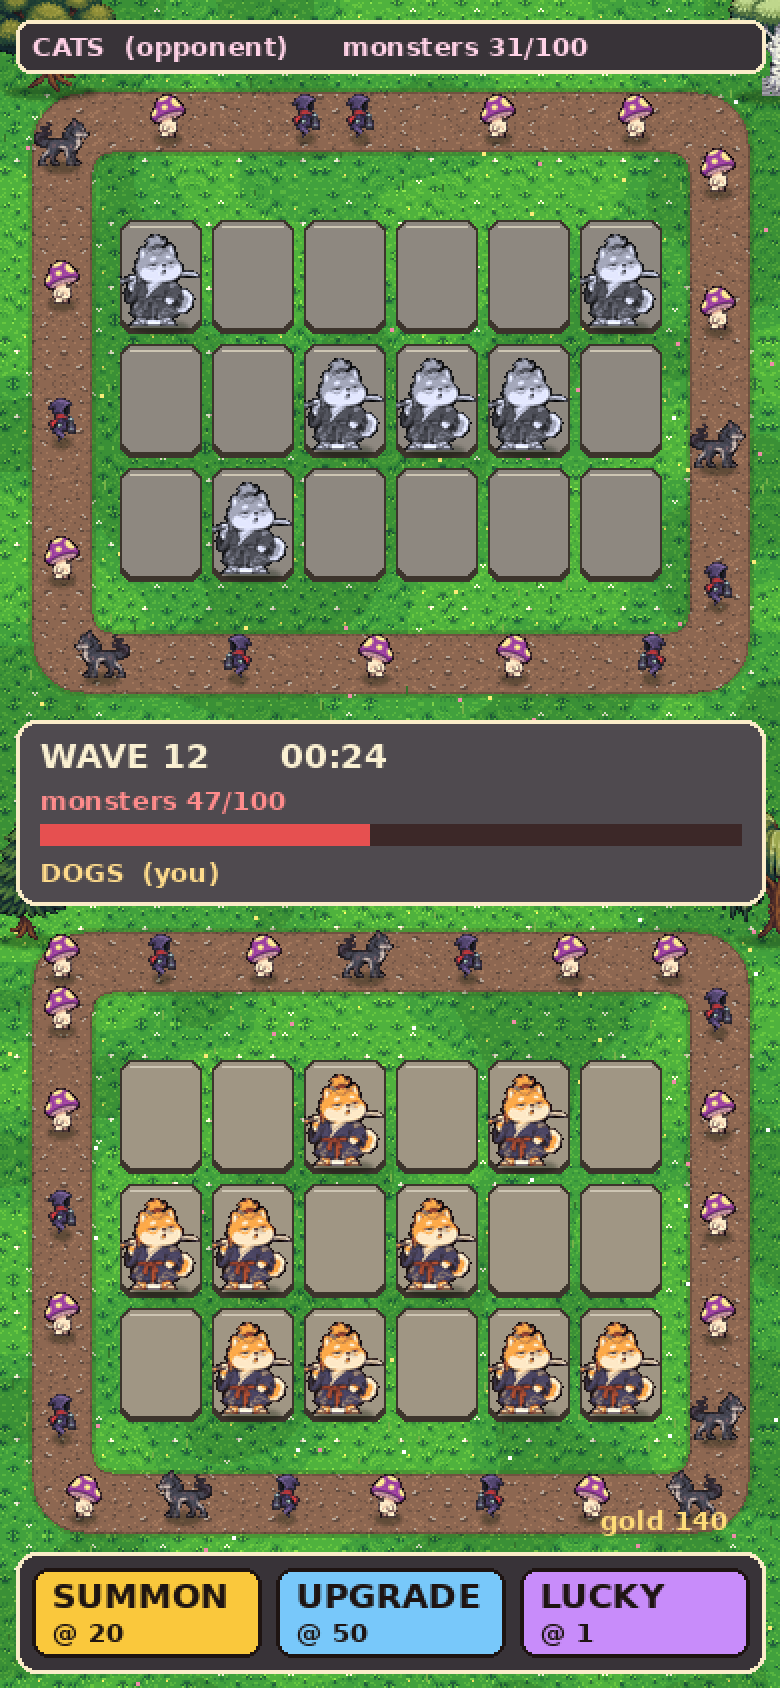
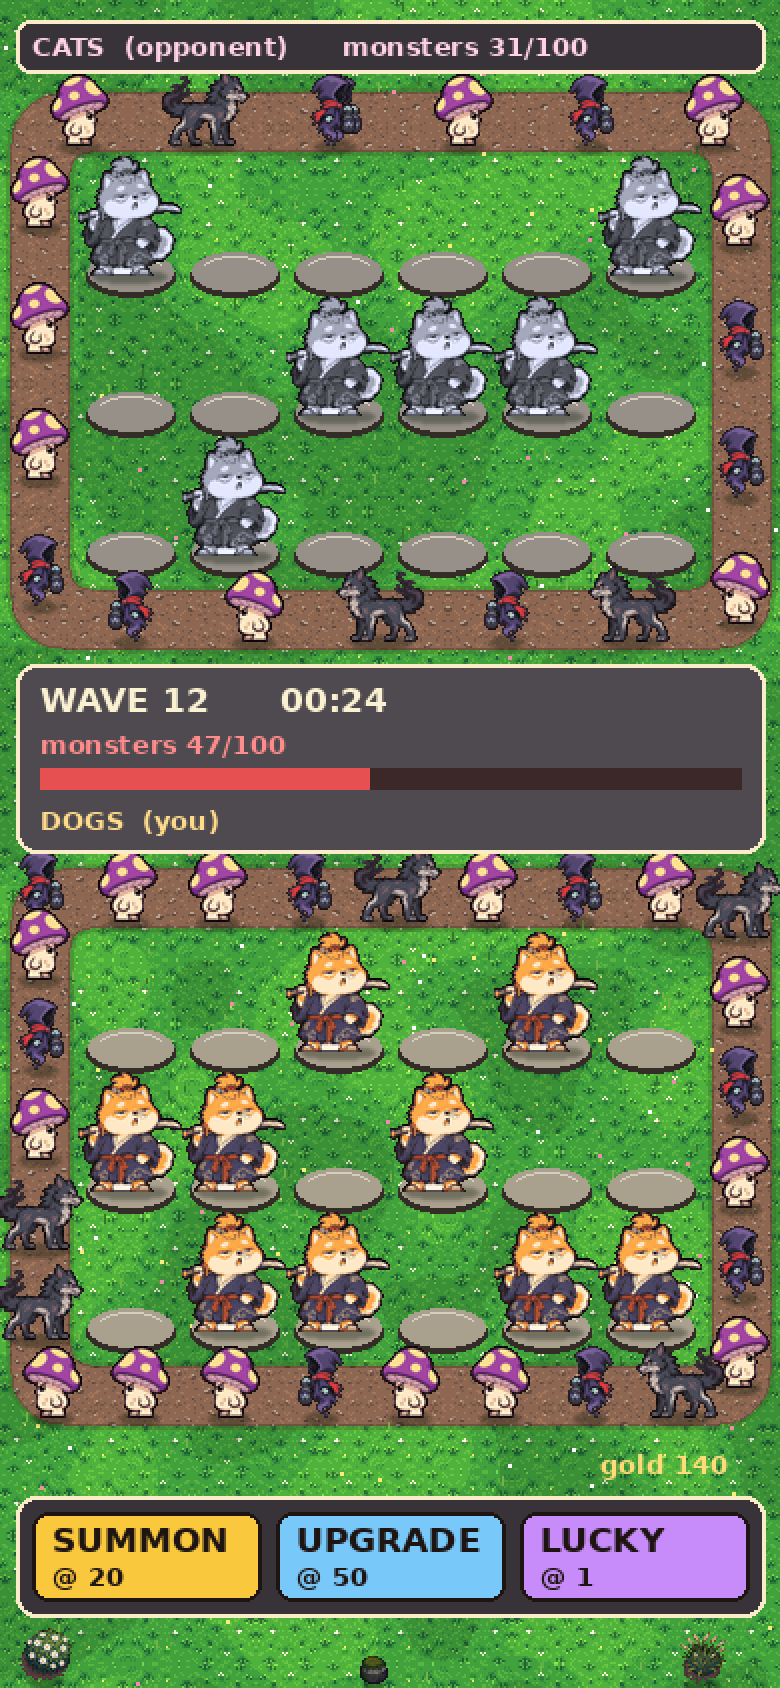
Dogs vs cats: shiba in PixelLab (redraw B + 8-direction character), camera angle comparison, evener LD mock
Claude-Session: https://claude.ai/code/session_01TXxUxQ6wjWh66ESj3NLopA

diff --git a/tools/art/tw_cam_mock.py b/tools/art/tw_cam_mock.py
@@ -1,0 +1,109 @@
+# Dogs vs cats: one Lucky-Defense-style board seen from 4 camera angles, side by side (owner 2026-11-12
+# "ลองใช้มุมกล้องหลายๆแบบให้ฉันเทียบดู"). Free, no jobs. The ground is painted flat (seen from straight above) in world units,
+# then each camera squashes / turns it; the characters always stand upright at their own pixel size (60 px), only their feet
+# move with the camera. Slots are drawn after the camera as stone discs with a front face (thicker when the camera is lower).
+#   python3 tools/art/tw_cam_mock.py -> art/incoming/dogcat/tw_cam_mock.png (x2)
+import json, math, random, numpy as np
+from PIL import Image, ImageDraw, ImageFont
+from scipy import ndimage
+random.seed(4); np.random.seed(4)
+D = 'art/td/tiles/'; P2 = 'art/td/props/set2/cut/'; OUT = 'art/incoming/dogcat/'
+WW, WH = 390, 252                                  # the board in world units (1 unit = 1 screen px across)
+GX, GY, CS = 51, 54, 48                            # 6 x 3 grid of 48-unit cells
+LO = (15, 18, 375, 234); RW = 28                   # the loop road's outer edge and width
+def tex(k, lower):
+    m = json.load(open(D + k + '_meta.json'))['tileset_data']['tiles']; im = Image.open(D + k + '.png').convert('RGB')
+    for t in m:
+        if all((t['corners'][q] == 'lower') == lower for q in t['corners']):
+            b = t['bounding_box']; return im.crop((b['x'], b['y'], b['x'] + 32, b['y'] + 32))
+def tile_fill(t, w, h):
+    o = Image.new('RGB', (w, h))
+    for y in range(0, h, 32):
+        for x in range(0, w, 32): o.paste(t.transpose(random.choice([Image.FLIP_LEFT_RIGHT, Image.FLIP_TOP_BOTTOM, Image.ROTATE_180])) if random.random() < .5 else t, (x, y))
+    return np.asarray(o).astype(float)
+# --- the flat world ground (with a wide grass margin so turned cameras never show an edge)
+M = 360; FW, FH = WW + 2 * M, WH + 2 * M
+yy, xx = np.mgrid[0:FH, 0:FW]
+def rrect(x0, y0, x1, y1, r):
+    x0 += M; x1 += M; y0 += M; y1 += M
+    cx = np.clip(xx, x0 + r, x1 - r); cy = np.clip(yy, y0 + r, y1 - r); return np.hypot(xx - cx, yy - cy) <= r
+G = tile_fill(tex('path_pro', False), FW, FH); DR = tile_fill(tex('path_pro', True), FW, FH)
+n40 = np.asarray(Image.fromarray((np.random.rand(FH // 40 + 2, FW // 40 + 2) * 255).astype(np.uint8)).resize(((FW // 40 + 2) * 40, (FH // 40 + 2) * 40), Image.BICUBIC)).astype(float)[:FH, :FW] / 255
+img = G.copy(); img[n40 < .35] *= .9; lt = n40 > .65; img[lt] = img[lt] * 1.07 + np.array([10, 6, -4])
+road = rrect(*LO, 24) & ~rrect(LO[0] + RW, LO[1] + RW, LO[2] - RW, LO[3] - RW, 8)
+img[road] = DR[road]
+rim = road ^ ndimage.binary_dilation(road, iterations=2); img[rim] = img[rim] * .68 + np.array([60, 96, 36]) * .32
+inn = ndimage.binary_erosion(road, iterations=1) ^ road; img[inn & road] *= .8
+GROUND = Image.fromarray(np.clip(img, 0, 255).astype(np.uint8)).convert('RGBA'); gd = ImageDraw.Draw(GROUND)
+for _ in range(4200):
+    x, y = random.randrange(2, FW - 2), random.randrange(2, FH - 2)
+    if road[y, x]: continue
+    if random.random() < .6: gd.rectangle((x, y, x, y + 1), fill=random.choice([(52, 116, 44), (118, 178, 72)]))
+    else: gd.rectangle((x, y, x + 1, y + 1), fill=random.choice([(250, 236, 120), (240, 140, 170), (255, 255, 255)]))
+# loop middle line (world units)
+a, b, c, d = LO[0] + RW / 2, LO[1] + RW / 2, LO[2] - RW / 2, LO[3] - RW / 2
+per = 2 * (c - a + d - b); LOOP = []
+for s in np.linspace(0, per, 400, endpoint=False):
+    if s < c - a: LOOP.append((a + s, b))
+    elif s < c - a + d - b: LOOP.append((c, b + s - (c - a)))
+    elif s < 2 * (c - a) + d - b: LOOP.append((c - (s - (c - a + d - b)), d))
+    else: LOOP.append((a, d - (s - (2 * (c - a) + d - b))))
+# --- sprites
+def solid(im):
+    a = np.asarray(im.convert('RGBA')).copy(); a[..., 3] = (a[..., 3] > 110) * 255; return Image.fromarray(a)
+SH = solid(Image.open(OUT + 'pl/pl_b64_front_clean.png'))                       # PixelLab B shiba, 61 px, as is
+MOBS = {}
+for k2 in ('shroom', 'wisp', 'wolf'):
+    m = json.load(open('art/action/mobs_hr/%s.json' % k2)); im = Image.open('art/action/mobs_hr/%s.png' % k2).crop((0, 0, m['w'], m['h'])); im = im.crop(im.getbbox())
+    h = 34 if k2 != 'wolf' else 36; MOBS[k2] = solid(im.resize((round(im.width * h / im.height), h), Image.LANCZOS))
+def fit(f, h):
+    im = Image.open(f).convert('RGBA'); im = im.crop(im.getbbox()); return solid(im.resize((max(1, round(im.width * h / im.height)), h), Image.LANCZOS))
+PROPS = [(-6, 120, fit(P2 + 'trees_green_1.png', 74)), (396, 110, fit(P2 + 'trees_green_3.png', 70)), (8, 262, fit(P2 + 'bushes_1.png', 22)), (384, 258, fit(P2 + 'bushes_6.png', 22))]
+OCC = {(0, 1), (1, 1), (2, 0), (2, 2), (3, 1), (4, 0), (5, 2), (1, 2), (4, 2)}
+MOBI = list(range(0, 400, 16)); MOBK = [random.choice(list(MOBS)) for _ in MOBI]
+# --- cameras: forward 2x3 affine world -> screen (before the panel offset)
+CAMS = [('A  TOP-DOWN 90', 1.0, 0), ('B  HIGH 3/4  (~50)', .75, 0), ('C  LOW 3/4  (~30)', .5, 0), ('D  ISOMETRIC', .5, 45)]
+F = ImageFont.truetype('/usr/share/fonts/truetype/dejavu/DejaVuSans-Bold.ttf', 14)
+def panel(name, sy, rot):
+    th = math.radians(rot); cx, cy = WW / 2, WH / 2
+    k = 1.0
+    if rot:   # the turned board is wider than the phone: shrink it to fit 390
+        k = (WW - 6) / ((WW * math.cos(th) + WH * math.sin(th)))
+    def fwd(x, y):
+        u = (x - cx) * math.cos(th) - (y - cy) * math.sin(th); v = (x - cx) * math.sin(th) + (y - cy) * math.cos(th)
+        return u * k, v * k * sy
+    corners = [fwd(x, y) for x, y in ((0, 0), (WW, 0), (WW, WH), (0, WH))]
+    top = 70; PH = int(max(p[1] for p in corners) - min(p[1] for p in corners)) + top + 24; PW_ = 390
+    ox = PW_ / 2; oy = top - min(p[1] for p in corners)
+    S = lambda x, y: (fwd(x, y)[0] + ox, fwd(x, y)[1] + oy)
+    # affine for the ground image: screen -> flat ground pixel (inverse of S, with the margin M)
+    A = np.array([[k * math.cos(th), -k * math.sin(th)], [k * sy * math.sin(th), k * sy * math.cos(th)]]); Ai = np.linalg.inv(A)
+    t0 = np.array([ox, oy]) - A @ np.array([cx, cy])
+    coef = (Ai[0, 0], Ai[0, 1], -(Ai[0] @ t0) + M, Ai[1, 0], Ai[1, 1], -(Ai[1] @ t0) + M)
+    pan = GROUND.transform((PW_, PH), Image.AFFINE, coef, Image.NEAREST)
+    dr = ImageDraw.Draw(pan); items = []
+    rx = 19 * k; ry = 19 * k * sy; tk = round(7 * math.sqrt(max(0, 1 - sy * sy)))      # disc radius and front-face height
+    for cc in range(6):
+        for r in range(3):
+            x, y = S(GX + cc * CS + CS / 2, GY + r * CS + CS / 2)
+            dr.ellipse((x - rx - 1, y - ry + tk - 1, x + rx + 1, y + ry + tk + 2), fill=(44, 38, 34))
+            dr.rectangle((x - rx, y, x + rx, y + tk), fill=(112, 104, 94)); dr.ellipse((x - rx, y - ry + tk, x + rx, y + ry + tk), fill=(112, 104, 94))
+            dr.ellipse((x - rx, y - ry, x + rx, y + ry), fill=(172, 162, 144), outline=(60, 52, 46))
+            dr.arc((x - rx + 4, y - ry + 2, x + rx - 4, y + ry - 2), 200, 330, fill=(214, 206, 188))
+            if (cc, r) in OCC: items.append((y + 2, SH, x - SH.width / 2))
+    for i, kk in zip(MOBI, MOBK):
+        x, y = S(*LOOP[i]); nx, _ = S(*LOOP[(i + 6) % 400]); im = MOBS[kk] if nx >= x else MOBS[kk].transpose(Image.FLIP_LEFT_RIGHT)
+        items.append((y + 3, im, x - im.width / 2))
+    for px, py, im in PROPS:
+        x, y = S(px, py); items.append((y, im, x - im.width / 2))
+    sh = Image.new('RGBA', pan.size); sd = ImageDraw.Draw(sh)
+    for y, im, x in items: sd.ellipse((x + im.width * .18, y - 3, x + im.width * .82, y + 2), fill=(10, 24, 8, 100))
+    pan.alpha_composite(sh)
+    for y, im, x in sorted(items, key=lambda t: t[0]): pan.alpha_composite(im, (round(x), round(y - im.height)))
+    hd = ImageDraw.Draw(pan); hd.rounded_rectangle((6, 6, PW_ - 6, 30), 7, fill=(30, 24, 30, 225), outline=(250, 236, 200), width=2)
+    hd.text((14, 10), name, fill=(255, 226, 150), font=F)
+    return pan
+pans = [panel(*c) for c in CAMS]
+H = max(p.height for p in pans); out = Image.new('RGBA', (sum(p.width for p in pans) + 12 * (len(pans) - 1), H), (24, 20, 24, 255)); x = 0
+for p in pans: out.alpha_composite(p, (x, 0)); x += p.width + 12
+out.resize((out.width * 2, out.height * 2), Image.NEAREST).save(OUT + 'tw_cam_mock.png'); print('ok', out.size, [p.size for p in pans])

diff --git a/tools/art/tw_ld_mock.py b/tools/art/tw_ld_mock.py
@@ -24,8 +24,8 @@ def noise(c):
 N8, N40 = noise(8), noise(40)
 G = tile_fill(tex('path_pro', False)); DR = tile_fill(tex('path_pro', True))
 img = G.copy(); img[N40 < .35] *= .9; lt = N40 > .65; img[lt] = img[lt] * 1.07 + np.array([10, 6, -4])
-BOARDS = [(46, 'top'), (466, 'me')]          # board top edges
-BW, BH, PW = 358, 300, 30                     # board size, loop width
+BOARDS = [(46, 'top'), (434, 'me')]          # board top edges
+BW, BH, PW = 380, 278, 30   # owner "ทำให้มันสมส่วนหน่อย": units fill their slots, monsters ~2/3 of a unit, a tighter loop                     # board size, loop width
 X0 = (W - BW) // 2
 def rrect(x0, y0, x1, y1, r):
     cx = np.clip(xx, x0 + r, x1 - r); cy = np.clip(yy, y0 + r, y1 - r); return np.hypot(xx - cx, yy - cy) <= r
@@ -52,35 +52,34 @@ for _ in range(500):
     if random.random() < .6: c = random.choice([(52, 116, 44), (118, 178, 72)]); dr.line((x, y, x, y - random.randint(2, 4)), fill=c)
     else: dr.rectangle((x, y, x + 1, y + 1), fill=random.choice([(250, 236, 120), (240, 140, 170), (255, 255, 255)]))
 # slots: 6 x 3 stone tiles inside each loop
-CW, CHh = 46, 62
+CW, CHh = 52, 70
 def fit(f, h, flip=False):
     im = Image.open(f).convert('RGBA'); im = im.crop(im.getbbox()); k = h / im.height
     im = im.resize((max(1, round(im.width * k)), h), Image.LANCZOS); a = np.asarray(im).copy(); a[..., 3] = (a[..., 3] > 110) * 255; im = Image.fromarray(a)
     return im.transpose(Image.FLIP_LEFT_RIGHT) if flip else im
-SB = Image.open(OUT + 'shiba_px64_front.png').convert('RGBA'); k = 46 / SB.height; SB = SB.resize((round(SB.width * k), 46), Image.LANCZOS)
+SB = Image.open(OUT + 'shiba_px64_front.png').convert('RGBA'); k = 60 / SB.height; SB = SB.resize((round(SB.width * k), 60), Image.LANCZOS)
 a = np.asarray(SB).copy(); a[..., 3] = (a[..., 3] > 110) * 255; SB = Image.fromarray(a)
 grey = np.asarray(SB).astype(float).copy(); g = grey[..., :3].mean(2, keepdims=True); grey[..., :3] = g * np.array([.95, .97, 1.08]) * 1.05; GREY = Image.fromarray(np.clip(grey, 0, 255).astype(np.uint8))
 items = []
 for (y0, who), pts in zip(BOARDS, LOOPS):
-    gx = X0 + (BW - 6 * CW) // 2; gy = y0 + (BH - 3 * CHh) // 2 + 4
+    gx = X0 + (BW - 6 * CW) // 2; gy = y0 + (BH - 3 * CHh) // 2
     occ = {(0, 1), (1, 1), (2, 0), (2, 2), (3, 1), (4, 0), (5, 2), (1, 2), (4, 2)} if who == 'me' else {(0, 0), (1, 2), (3, 1), (4, 1), (5, 0), (2, 1)}
     for c in range(6):
         for r in range(3):
             x, y = gx + c * CW, gy + r * CHh
-            dr.rounded_rectangle((x + 3, y + 3, x + CW - 3, y + CHh - 3), 6, fill=(60, 52, 44, 255))
-            dr.rounded_rectangle((x + 4, y + 4, x + CW - 4, y + CHh - 6), 6, fill=(160, 150, 132, 255) if who == 'me' else (142, 136, 128, 255))
-            dr.line((x + 8, y + 6, x + CW - 8, y + 6), fill=(206, 198, 180, 255))
-            if (c, r) in occ: items.append((y + CHh - 6, SB if who == 'me' else GREY, x + CW // 2 - SB.width // 2))
+            dr.ellipse((x + 4, y + CHh - 22, x + CW - 4, y + CHh - 2), fill=(52, 44, 38, 255))
+            dr.ellipse((x + 5, y + CHh - 24, x + CW - 5, y + CHh - 5), fill=(170, 160, 142, 255) if who == 'me' else (150, 144, 136, 255))
+            dr.arc((x + 9, y + CHh - 22, x + CW - 9, y + CHh - 8), 200, 340, fill=(214, 206, 188, 255))
+            if (c, r) in occ: items.append((y + CHh - 12, SB if who == 'me' else GREY, x + CW // 2 - SB.width // 2))
     # monsters on the loop
-    for i in range(0, 400, 17 if who == 'me' else 23):
+    for i in range(0, 400, 15 if who == 'me' else 21):
         px, py = pts[(i + (0 if who == 'me' else 50)) % 400]; k2 = random.choice(['shroom', 'wisp', 'wolf'])
         m = json.load(open('art/action/mobs_hr/%s.json' % k2)); im = Image.open('art/action/mobs_hr/%s.png' % k2).crop((0, 0, m['w'], m['h'])); im = im.crop(im.getbbox())
-        h = 22 if k2 != 'wolf' else 24; kk = h / im.height; im = im.resize((round(im.width * kk), h), Image.LANCZOS); a = np.asarray(im).copy(); a[..., 3] = (a[..., 3] > 110) * 255
+        h = 36 if k2 != 'wolf' else 38; kk = h / im.height; im = im.resize((round(im.width * kk), h), Image.LANCZOS); a = np.asarray(im).copy(); a[..., 3] = (a[..., 3] > 110) * 255
         nx, ny = pts[(i + 5 + (0 if who == 'me' else 50)) % 400]; im = Image.fromarray(a); im = im if nx >= px else im.transpose(Image.FLIP_LEFT_RIGHT)
-        items.append((int(py) + 8, im, int(px) - im.width // 2))
+        items.append((int(py) + 12, im, int(px) - im.width // 2))
 # small trees / rocks in the margins and the middle strip
-for x, y, n, h in ((10, 470, 'trees_green_1', 70), (380, 470, 'trees_green_3', 64), (12, 46, 'trees_green_0', 62), (378, 48, 'trees_green_2', 60),
-                   (40, 432, 'bushes_1', 20), (350, 436, 'bushes_6', 20), (200, 440, 'stones_0', 12)):
+for x, y, n, h in ((30, 840, 'bushes_1', 26), (360, 842, 'bushes_6', 26), (200, 842, 'stones_0', 14)):
     items.append((y, fit(P2 + n + '.png', h, random.random() < .5), x - 20))
 sh = Image.new('RGBA', base.size); sd = ImageDraw.Draw(sh)
 for y, im, x in items: sd.ellipse((x + im.width * .15, y - 3, x + im.width * .85, y + 3), fill=(10, 24, 8, 90))
@@ -91,13 +90,13 @@ hd = ImageDraw.Draw(base); F = ImageFont.truetype('/usr/share/fonts/truetype/dej
 def bar(y, txt, col):
     hd.rounded_rectangle((8, y, W - 8, y + 26), 7, fill=(30, 24, 30, 225), outline=(250, 236, 200), width=2); hd.text((16, y + 5), txt, fill=col, font=F)
 bar(10, 'CATS  (opponent)      monsters 31/100', (255, 210, 230))
-hd.rounded_rectangle((8, 360, W - 8, 452), 10, fill=(30, 24, 30, 200), outline=(250, 236, 200), width=2)
-hd.text((20, 368), 'WAVE 12      00:24', fill=(250, 240, 210), font=FB); hd.text((20, 392), 'monsters 47/100', fill=(255, 140, 140), font=F)
-hd.rectangle((20, 412, 370, 422), fill=(60, 40, 40)); hd.rectangle((20, 412, 20 + int(350 * .47), 422), fill=(230, 80, 80))
-hd.text((20, 428), 'DOGS  (you)', fill=(255, 220, 140), font=F)
-hd.rounded_rectangle((8, 776, W - 8, 836), 10, fill=(30, 24, 30, 225), outline=(250, 236, 200), width=2)
+hd.rounded_rectangle((8, 332, W - 8, 426), 10, fill=(30, 24, 30, 200), outline=(250, 236, 200), width=2)
+hd.text((20, 340), 'WAVE 12      00:24', fill=(250, 240, 210), font=FB); hd.text((20, 364), 'monsters 47/100', fill=(255, 140, 140), font=F)
+hd.rectangle((20, 384, 370, 394), fill=(60, 40, 40)); hd.rectangle((20, 384, 20 + int(350 * .47), 394), fill=(230, 80, 80))
+hd.text((20, 402), 'DOGS  (you)', fill=(255, 220, 140), font=F)
+hd.rounded_rectangle((8, 748, W - 8, 808), 10, fill=(30, 24, 30, 225), outline=(250, 236, 200), width=2)
 for i, (t, c, col) in enumerate((('SUMMON', '20', (250, 200, 60)), ('UPGRADE', '50', (120, 200, 250)), ('LUCKY', '1', (200, 140, 250)))):
-    x = 16 + i * 122; hd.rounded_rectangle((x, 784, x + 114, 828), 8, fill=col, outline=(30, 20, 18), width=2)
-    hd.text((x + 10, 788), t, fill=(30, 20, 18), font=FB); hd.text((x + 10, 808), '@ ' + c, fill=(30, 20, 18), font=F)
-hd.text((300, 752), 'gold 140', fill=(255, 220, 120), font=F)
+    x = 16 + i * 122; hd.rounded_rectangle((x, 756, x + 114, 800), 8, fill=col, outline=(30, 20, 18), width=2)
+    hd.text((x + 10, 760), t, fill=(30, 20, 18), font=FB); hd.text((x + 10, 780), '@ ' + c, fill=(30, 20, 18), font=F)
+hd.text((300, 724), 'gold 140', fill=(255, 220, 120), font=F)
 base.resize((W * 2, H * 2), Image.NEAREST).save(OUT + 'tw_ld_mock.png'); print('ok')

diff --git a/docs/action-game.md b/docs/action-game.md
@@ -77,6 +77,8 @@ Balance after: 1.25 of 40 (first trial key, 2026-11-08, all attacks done). The o
 | 2026-11-12 | (misread order: the owner wanted the archer) the owner's video run of the soft chibi assassin (`ro_test/video/run/`, face kept) → 8 frames in a 4x2 grid → `image_to_pixelart` redraw 436x256 | e9fd3110… | 1 | `run/pl_grid_b.png`, `pl_run_x3.gif`: clean pixel run, same face in every frame; the video itself cut to `run/f*.png` (27-frame loop, 128 px) |
 | 2026-11-12 | "3D-looking" pixel shading test (owner "เอาพิกเซลทำเลย แต่ตัวละครสีมันออกทรง 3D"): `create_image_pixflux` img2img on the assassin boy B front (`ro_test/shade3d/init.png`), prompt = pre-rendered 3D look, init strength 300 | aac96266… | 1 | `ro_test/shade3d/cmp_x4.png`: almost no change (strength 300 keeps too much of the input); a lower strength or a 3D-render-style GPT picture would be needed |
 
+| 2026-11-12 | Dogs vs cats: lazy samurai shiba (owner's GPT 2-view sheet `dogcat/shiba_gpt.webp`) → `image_to_pixelart` redraw (type B), whole sheet 104x66 = body 64 px, the game size ("ลองเอาชิบไปทำ pixlab ดูสิ") | cedb1c72… | 1 | `dogcat/pl/pl_b64.png` (came on an opaque off-white background: cut → `_cut.png`, front / side `pl_b64_{front,side}_clean.png`); `pl/cmp_x5.png` = free converter vs B: B has flatter blocks, cleaner face, a ground line under the feet |
+| 2026-11-12 | Shiba as a PixelLab character, the class-1 way (owner "ลองอีกแบบ ที่เจนทำกับตัวละคร"): `create_character` v3, reference = the B front on an 80x80 canvas (feet 76; 80x80 still costs 1), view low top-down, no imported views | character 20721db6-137f-4da8-b8b3-da8bf2cb7de3 | 1 | 8 views in `dogcat/pl/char/Idle/rotations/` + `pl/char_preview.png`: same face and kimono in every view, tail and back clean; the katana hides behind him in east, sticks out short in south-east. Moves not made |
 ### Second PixelLab account (owner's other key, from 2026-11-08)
 The app kept the old key until restarted, so jobs go through `tools/pl_rpc.py` (HTTP JSON-RPC with the key from the
 user env var, never printed; `--upload` for images). Balance at start: 40 + 20 daily bonus (refills +5 a night, up to 20).
@@ -1080,3 +1082,7 @@ loaded): left-hand directions mirrored, upward attacks use the side view, the cr
 the spin. Menu card = her south still.
 Owner 2026-11-12 "วงไว้ทำตอนสกิล ... ทำไมจะลบเอฟเฟกต์": the spin clip is kept untouched as a second row `spinfx` (PixMiniMax's own glowing
 rings) for the E whirl skill; the old rogue whirl ring and after-images are off for her. The crit after normal hits keeps the clean spin.
+
+
+### Dogs vs cats mocks (2026-11-12, free)
+`tools/art/tw_ld_mock.py` (Lucky-Defense-style portrait, two boards) was made more even (owner "ทำให้มันสมส่วนหน่อย"): cells 52x70 with round stone discs, the shiba 60 px fills its cell, monsters 36 px, the loop closer to the grid, a smaller middle panel. `tools/art/tw_cam_mock.py` → `art/incoming/dogcat/tw_cam_mock.png` (owner "ลองใช้มุมกล้องหลายๆแบบให้ฉันเทียบดู"): the same board from 4 cameras: A straight top-down, B high 3/4 (ground ×.75), C low 3/4 (×.5), D isometric (turned 45°, ×.5, shrunk to fit 390 px); the ground is painted flat and squashed / turned per camera, characters stay upright at 1:1, slots get a thicker front face as the camera drops. Findings: A shows the slots best but the characters cover the row above; C and D crowd the 6x3 grid on a portrait phone; B is the LD-like middle.
